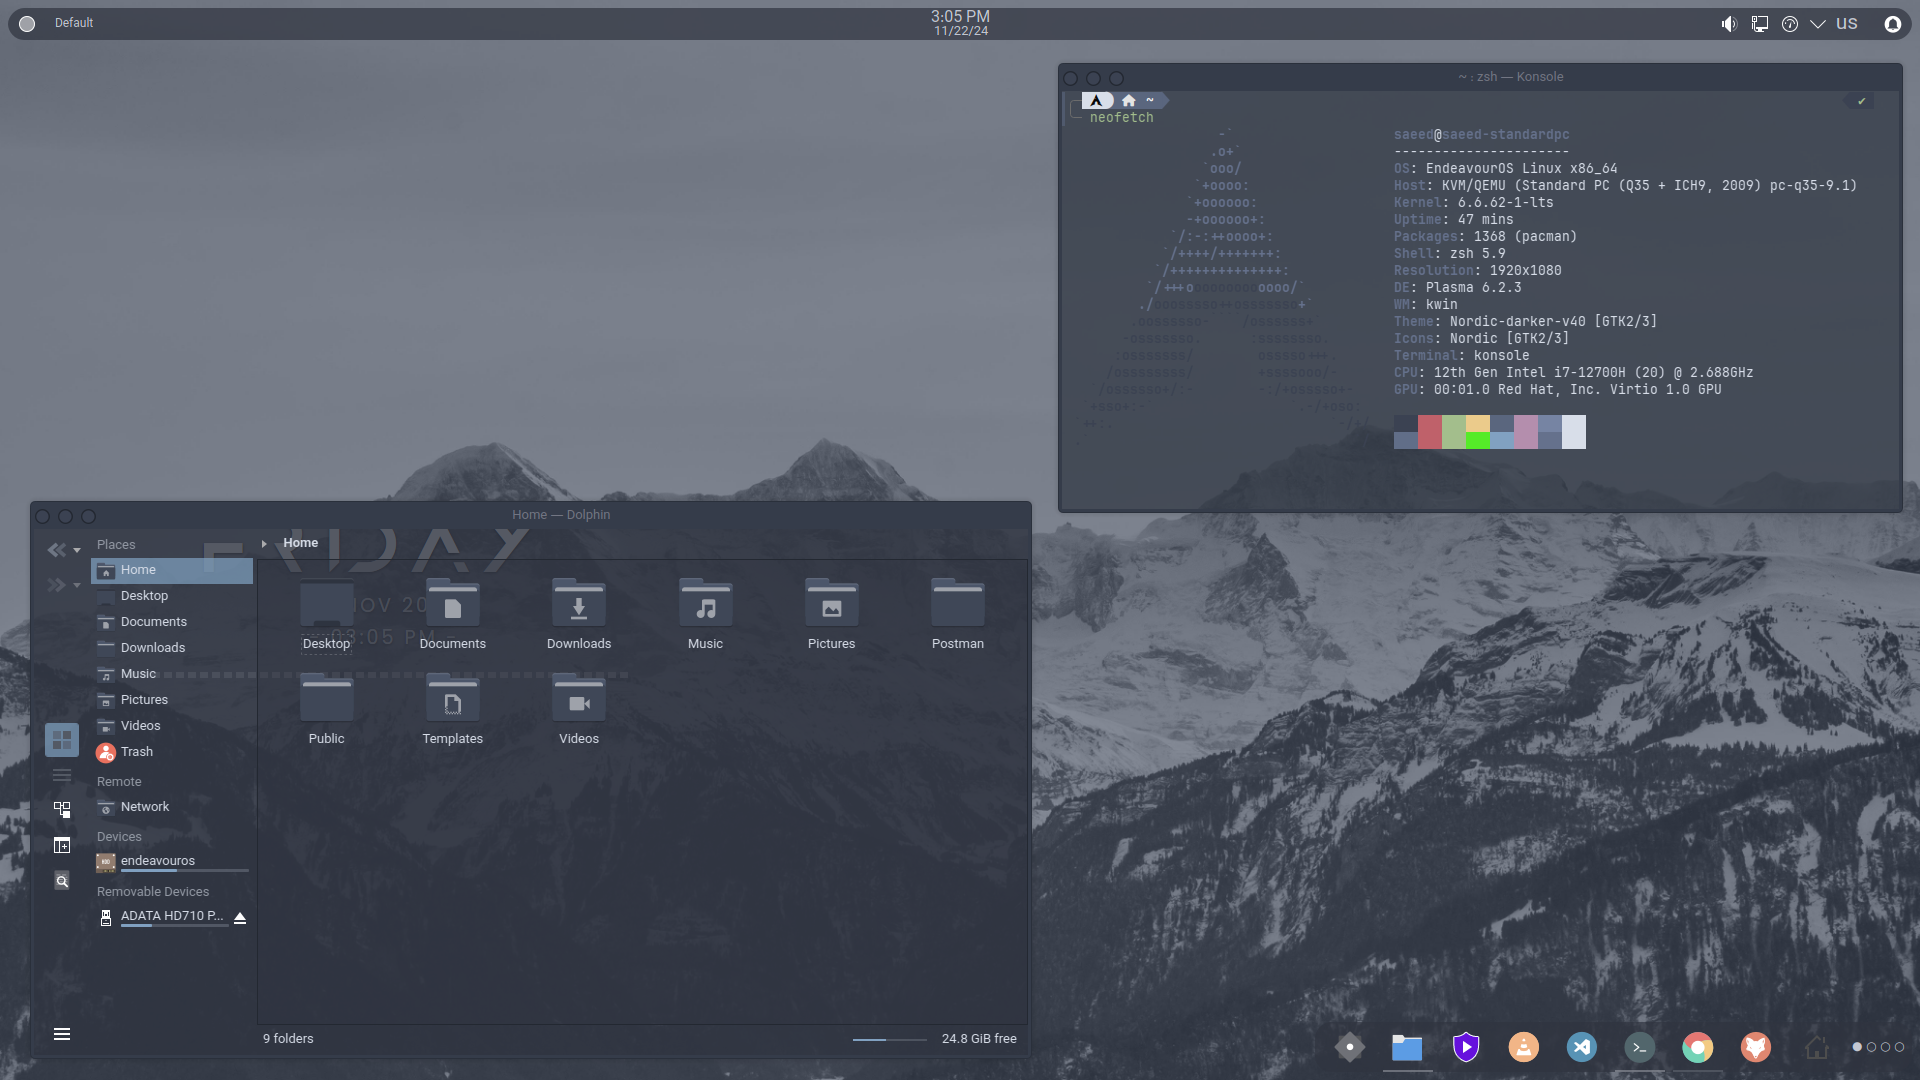
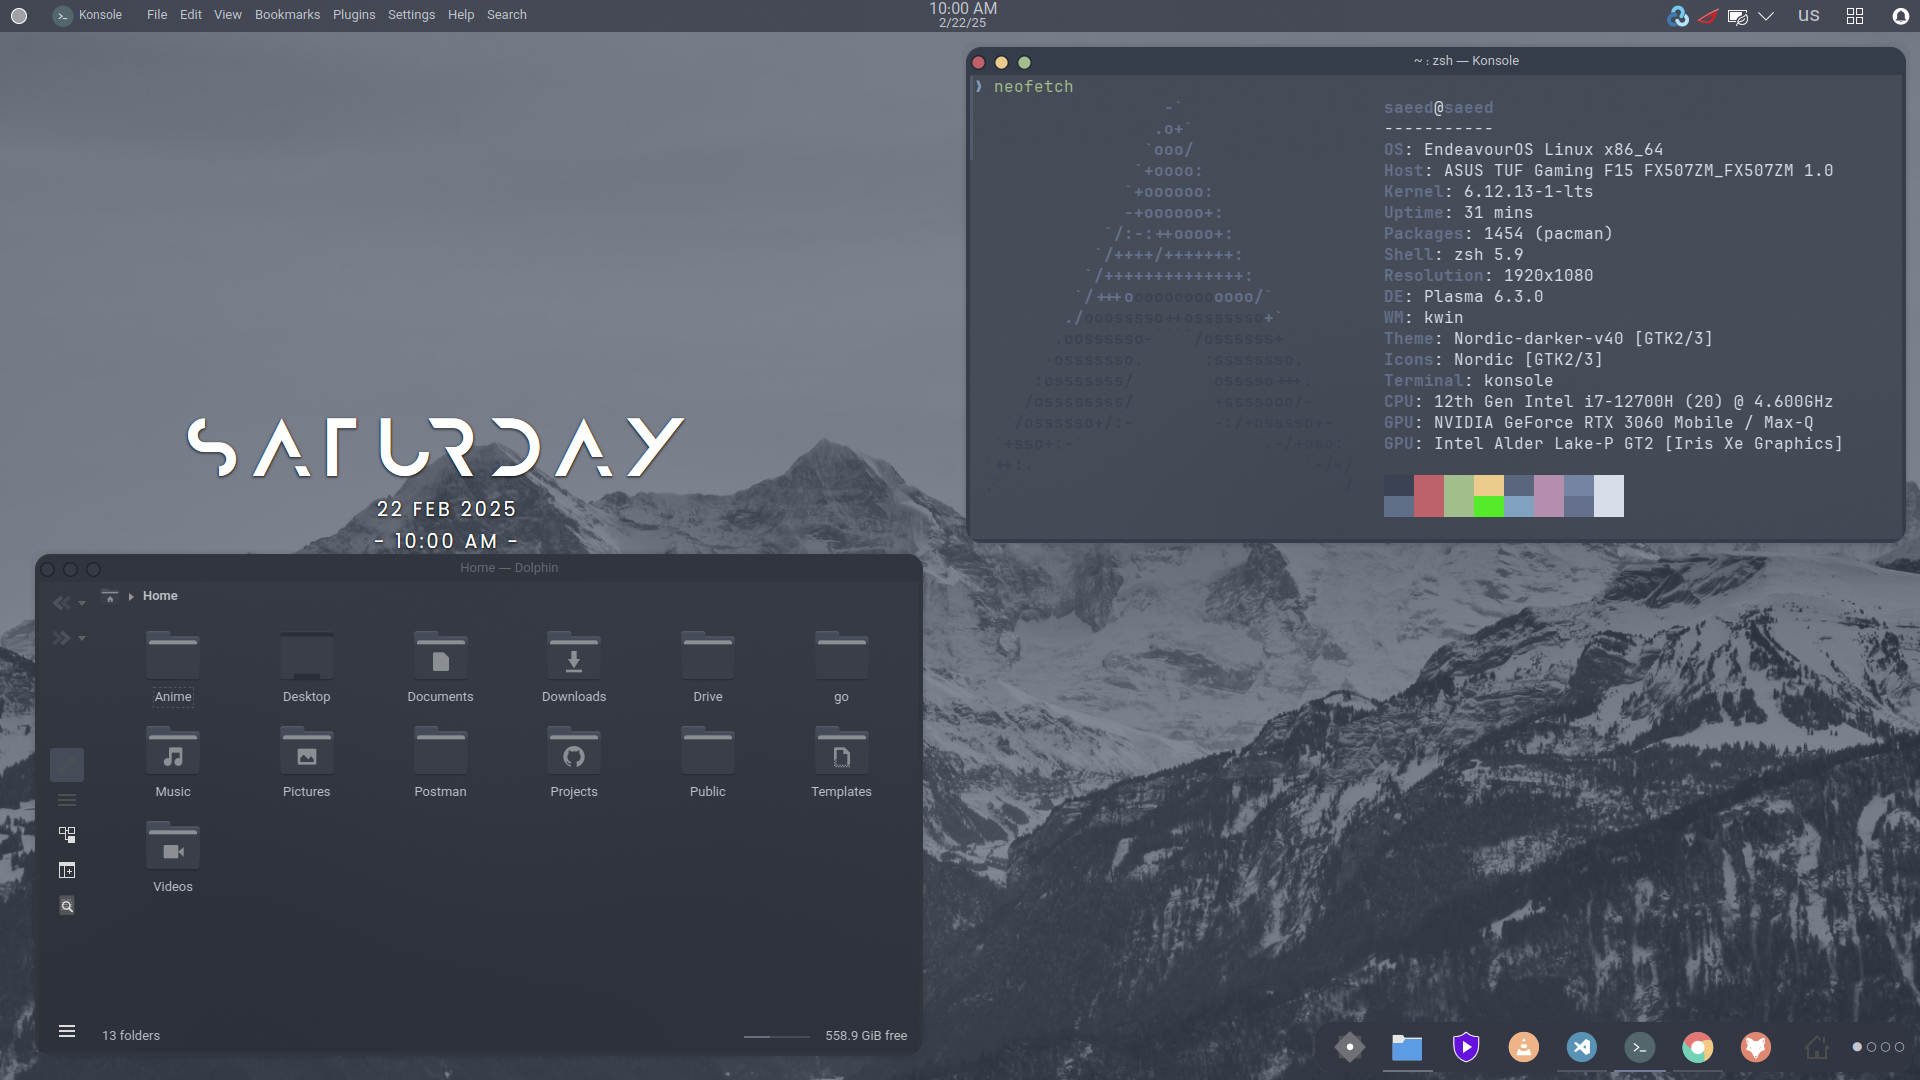
Update KDE Nordic Customization

diff --git a/customization/kde/kde_Nordic.md b/customization/kde/kde_Nordic.md
@@ -77,9 +77,35 @@ Enhancing your desktop experience involves enabling additional effects that can 
 
 5. **Enable "Rounded Corners":**
 
+   - This effect is not included by default and needs to be installed separately.
+   - Install it from **KDE Store** or use your package manager if available.
    - Navigate to System Settings > Windows Management > Desktop Effects.
    - Search for "Rounded Corners" and enable it.
    - Open its configuration menu and disable primary and secondary outlines
+
+6. **Enable "Maximize":**
+
+   - Navigate to System Settings > Windows Management > Desktop Effects.
+   - Check the box next to "Maximize" to enable a smooth animation when maximizing and restoring windows, making transitions more visually appealing.
+
+7. **Enable "Mouse Mark":**
+
+   - Navigate to System Settings > Windows Management > Desktop Effects.
+   - Check the box next to "Mouse Mark" to enable drawing temporary marks on the screen using the mouse, useful for presentations or highlighting content.
+   - Configure shortcut keys if needed for quick activation.
+
+8. **Enable "Magic Lamp":**
+
+   - Navigate to System Settings > Windows Management > Desktop Effects.
+   - Check the box next to "Magic Lamp" to activate a genie-like animation when minimizing windows, adding a stylish visual effect.
+   - Click the settings icon next to it and set the animation duration to **400 ms** for an optimal balance between speed and smoothness.
+
+9. **Enable "Geometry Change by Ftpr":**
+
+   - This effect is not included by default and needs to be installed separately.
+   - Install it from **KDE Store** or use your package manager if available.
+   - Navigate to System Settings > Windows Management > Desktop Effects.
+   - Check the box next to "Geometry Change by Ftpr" to enable smooth animations when resizing or moving windows, improving the visual experience.
 
 ## Customize Desktop Layout
 
@@ -316,6 +342,7 @@ Follow these steps to apply the Nordic theme and its variants:
   - [KDE Modern Clock](https://store.kde.org/p/2135653)
   - [Desktop Indicator](https://store.kde.org/p/2131462)
   - [Spectrum audio Emulator](https://store.kde.org/p/2201084)
+  - [KDE Control Station](https://www.pling.com/p/2196105/)
 
 ### Bottom Panel
 
@@ -365,7 +392,7 @@ Follow these steps to apply the Nordic theme and its variants:
 
 - Right click on desktop and `Enter Edit mode`
 - Add an empty panel to the top of the screen
-  - Change panel's visibility to `Dodge windows`
+  - Change panel's visibility to `Auto Hide`
   - Change panel's hight to `32`
 - Click on the `Add widget` bottom
 - Add the following widgets to the panel (From right to left)
@@ -394,6 +421,13 @@ Follow these steps to apply the Nordic theme and its variants:
   - Panel Spacer
     - set the panel's size to `10`
   - keyboard layout
+  - Panel Spacer
+    - set the panel's size to `10`
+  - KDE Control Station
+    - Open its configuration menu and change Icon and Items to your preference
+    - Remove duplicated items that are in the control station from System Tray
+  - Panel Spacer
+    - set the panel's size to `10`
   - Notifications
 
 ### Desktop
